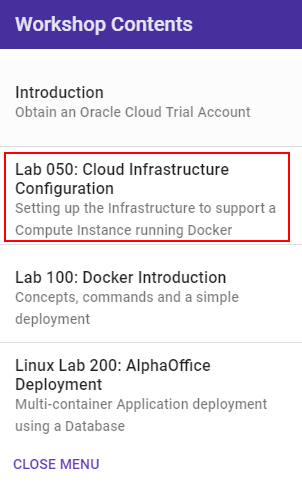
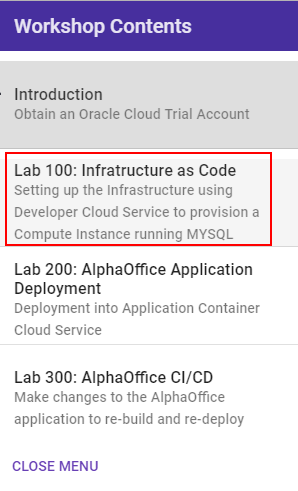
updates

diff --git a/workshops/devcs-mysql/Intro.md b/workshops/devcs-mysql/Intro.md
@@ -20,7 +20,7 @@ To learn more about this workshop please watch the video below.
 
 ### **Step 2**: Navigate to Lab 050
 
-- _You can see a list of Lab Guides_ by clicking on the **Menu Icon** hamburger in the upper left corner of the browser window. Then, **Select Lab 050: Cloud Infrastructure Configuration**.
+- _You can see a list of Lab Guides_ by clicking on the **Menu Icon** hamburger in the upper left corner of the browser window. Then, **Select Lab 100: Infrastructure as Code**.
 
   ![](images/Introham.png)
 
